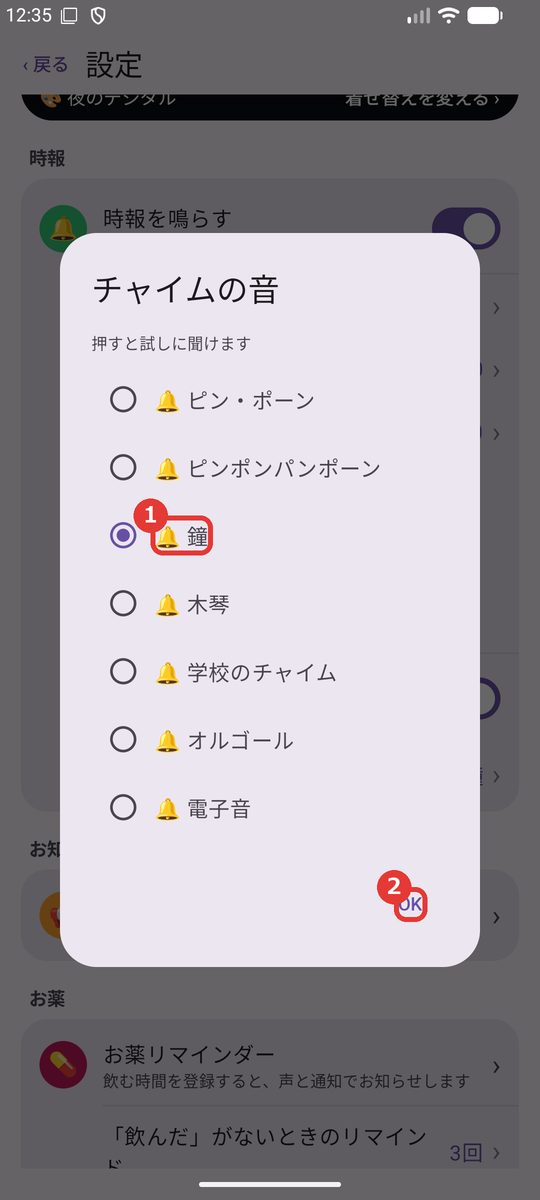
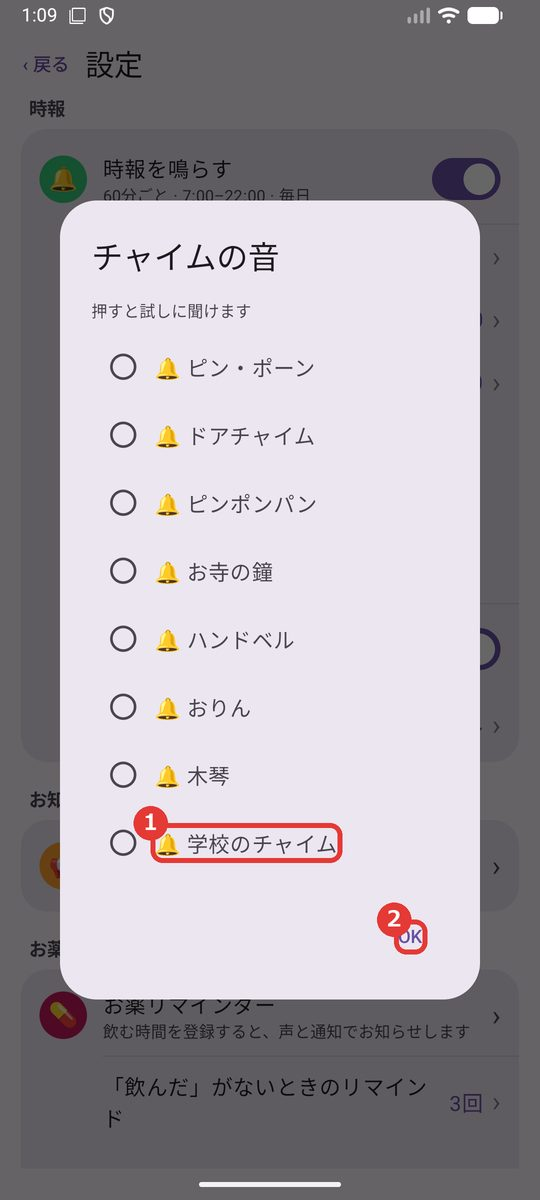
しゃべる時計：チャイムの音を録音にしたことを使い方のページと紹介ページに書く
- 使い方のページのチャイムの音の説明を 10 種類にし、選ぶ窓の画像を撮り直し、音源のクレジットの場所を書いた
- 紹介ページ（日本語・英語）にチャイムの録音の出典（Wikimedia Commons と作者・ライセンス）を書いた

diff --git a/talking-clock/index.html b/talking-clock/index.html
@@ -34,7 +34,7 @@
 
 <h2>Google アカウントのデータの使い方</h2>
 <p>Google カレンダーをつないだときだけ、利用者が許可したカレンダーの今日の予定を<strong>読むだけ</strong>で使い、時計の画面への表示と読み上げのためだけに使います。データは利用者の端末と利用者の Google アカウントの間でだけやり取りし、運営者のサーバーには送りません。詳しくは<a href="privacy.html">プライバシーポリシー</a>をご覧ください。</p>
-<p class="note">本アプリは Google の公式アプリではありません。Google カレンダーは Google LLC の商標です。写真：<a href="https://unsplash.com/">Unsplash</a>。</p>
+<p class="note">本アプリは Google の公式アプリではありません。Google カレンダーは Google LLC の商標です。写真：<a href="https://unsplash.com/">Unsplash</a>。チャイムの録音：<a href="https://commons.wikimedia.org/">Wikimedia Commons</a>（Jnn（CC BY 2.1 JP）、spazzo_1493（CC BY 3.0）、Luisalvaz（CC BY-SA 4.0）ほか。くわしくはアプリの「音源のクレジット」）。</p>
 
 <h2>使い方</h2>
 <p><a href="manual.html">使い方のページを読む</a></p>
@@ -69,7 +69,7 @@
 
 <h2>How the app uses your Google data</h2>
 <p>Only when you connect Google Calendar, the app <strong>reads</strong> today's events from the calendars you allow, only to show and read them out on the clock. Data moves only between your device and your Google Account, never to our servers. See the <a href="privacy.html">Privacy Policy</a> for details.</p>
-<p class="note">This app is not made by Google. Google Calendar is a trademark of Google LLC. Photos: <a href="https://unsplash.com/">Unsplash</a>.</p>
+<p class="note">This app is not made by Google. Google Calendar is a trademark of Google LLC. Photos: <a href="https://unsplash.com/">Unsplash</a>. Chime recordings: <a href="https://commons.wikimedia.org/">Wikimedia Commons</a> (Jnn, CC BY 2.1 JP; spazzo_1493, CC BY 3.0; Luisalvaz, CC BY-SA 4.0; and others. See Sound credits in the app).</p>
 
 <h2>How to use</h2>
 <p><a href="manual.html">How to use (Japanese only)</a></p>

diff --git a/talking-clock/manual.html b/talking-clock/manual.html
@@ -11,7 +11,7 @@
 <p><a href="./">しゃべる時計 の紹介ページへ戻る</a></p>
 <h1>しゃべる時計 の使い方</h1>
 <p>しゃべる時計（Talking Clock）は、時刻を声で知らせる時計のアプリです。決めた時刻のお知らせや、お薬を飲む時間のリマインダーも声で読み上げます。</p>
-<p class="note">この説明は バージョン 0.1.0 の画面に合わせています（2026年11月24日、チャイムの音を追加）。画面はこれから変わることがあります。画像の赤い枠と番号は、説明の番号と同じところです。</p>
+<p class="note">この説明は バージョン 0.1.0 の画面に合わせています（2026年11月24日、チャイムの音を録音に変更）。画面はこれから変わることがあります。画像の赤い枠と番号は、説明の番号と同じところです。</p>
 
 <ol class="toc">
 <li><a href="#start">はじめに</a></li>
@@ -59,9 +59,10 @@
 <h3>チャイムの音を選ぶ</h3>
 <img class="shot" src="images/manual/chime-sound.jpg" width="540" height="1200" loading="lazy" alt="チャイムの音を選ぶ窓">
 <ol>
-<li>音を押すと、すぐその音が鳴ります。ピン・ポーン・ピンポンパンポーン・鐘・木琴・学校のチャイム・オルゴール・電子音から選べます</li>
+<li>音を押すと、すぐその音が鳴ります。ピン・ポーン・ドアチャイム・ピンポンパン・お寺の鐘・ハンドベル・おりん・木琴・学校のチャイム・オルゴール・電子音の 10 種類から選べます（電子音のほかは、本物の録音です）</li>
 <li>気に入った音を選んだら「OK」を押します</li>
 </ol>
+<p class="note">録音の出典（Wikimedia Commons の作者とライセンス）は、設定の「このアプリについて」の「音源のクレジット」で見られます。</p>
 
 <h2 id="announce">4. お知らせを作る</h2>
 <p>決めた時刻に、好きな文を読み上げたり、音声ファイルを流したりできます。設定の「お知らせ」を押して開きます。</p>
